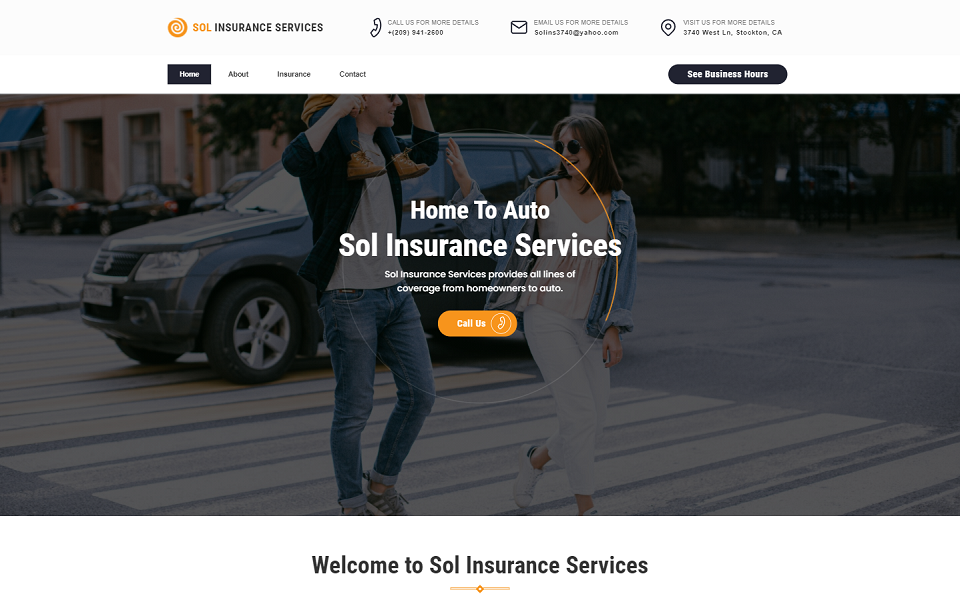
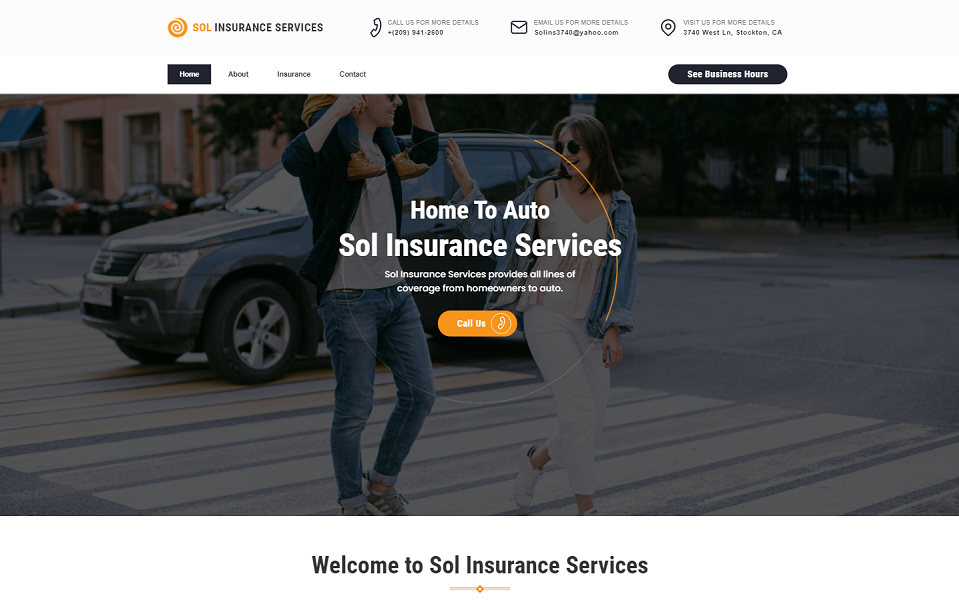
use new mockups

diff --git a/src/components/Home/Header.js b/src/components/Home/Header.js
@@ -2,7 +2,8 @@ import React from "react"
 import { Link } from "gatsby"
 
 import mockup from "../../assets/images/mockup6.png"
-import testimage from "../../assets/images/test_image2.png"
+import testimage from "../../assets/images/mockfinal.png"
+import testimage2 from "../../assets/images/test_mock.png"
 
 import Navbar from "../navbar"
 
@@ -32,8 +33,11 @@ function header(props) {
         </div>
       </div>
       <div className="v-shape-container">
-        <div className="header-image-container">
+        <div className="header-image-container desktop-image">
           <img className="header-image" src={testimage} alt="iphone" />
+        </div>
+        <div className="header-image-container mobile-image">
+          <img className="header-image" src={testimage2} alt="iphone" />
         </div>
         <div className="v-shape-left">
           <div className="v-shape-1"></div>

diff --git a/src/utils/styles.css b/src/utils/styles.css
@@ -301,9 +301,12 @@ main {
 
 .header-image {
   width: 100%;
-  max-width: 300px;
+  max-width: 500px;
   border-radius: 8px;
-  border: 1px solid #eee;
+}
+
+.desktop-image {
+  display: none;
 }
 
 .section {
@@ -831,7 +834,7 @@ main {
   }
 
   .header-container {
-    padding-top: 100px;
+    padding-top: 60px;
   }
 
   .section {
@@ -856,7 +859,6 @@ main {
   }
 
   .header-image-container {
-    width: initial;
   }
 
   .nav-toggle {
@@ -897,6 +899,16 @@ main {
   margin-top: -60px;
 }
 
+@media screen and (min-width: 600px) {
+  .mobile-image {
+    display: none;
+  }
+
+  .desktop-image {
+    display: flex;
+  }
+}
+
 @media screen and (min-width: 900px) {
   .mobile-animate {
     display: flex;
@@ -916,7 +928,7 @@ main {
   }
 
   .header-image {
-    max-width: 520px;
+    max-width: 900px;
   }
 
   .mobile-hide {
